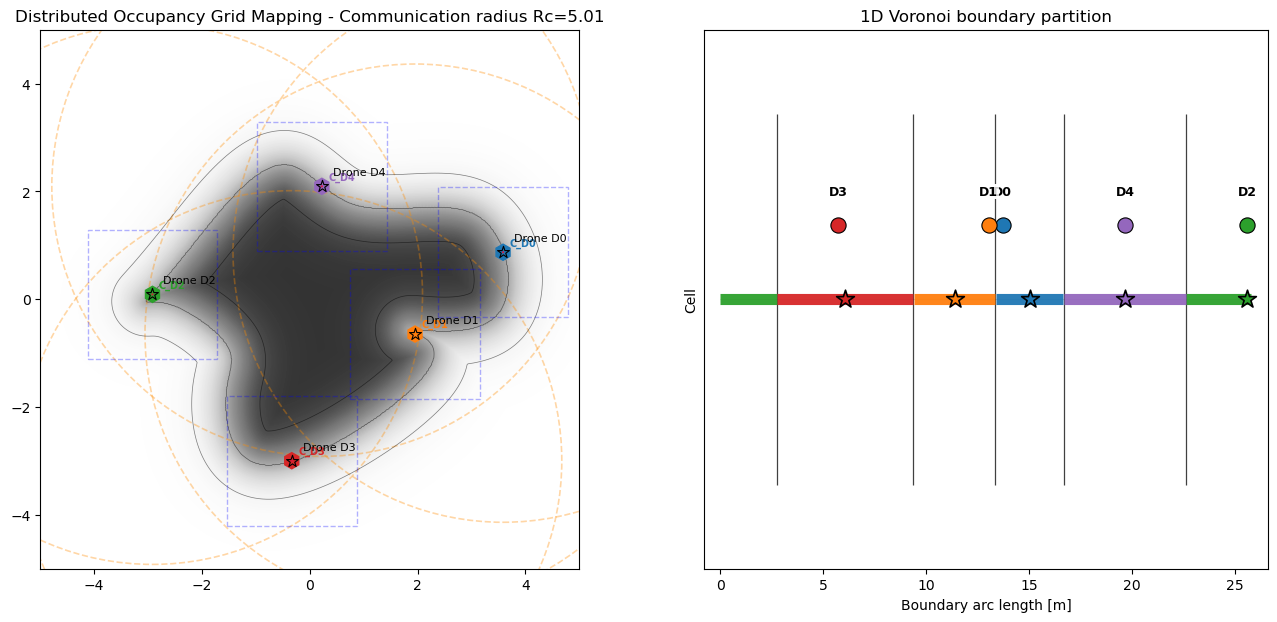
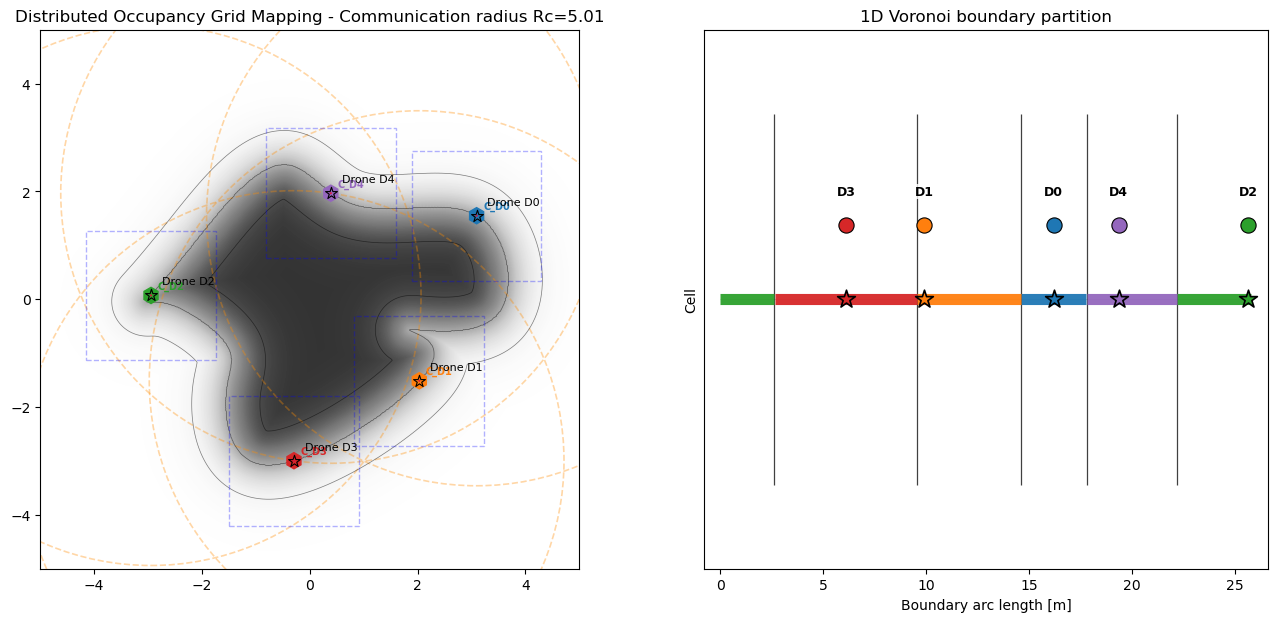
save

diff --git a/visualization.py b/visualization.py
@@ -324,30 +324,10 @@ class Visualizer:
         x_margin = max(0.25, 0.03 * float(total_boundary_length))
         self.ring_ax.set_xlim(-x_margin, float(total_boundary_length) + x_margin)
 
-        cell_colors = []
-        cell_indices = []
-        # For each drone, prefer per-drone `last_ring_info`; otherwise fall back
-        # to the canonical assignment determined above so drones are visible
-        # on the 1D ring even when they don't carry individual ring metadata.
+        # Draw one canonical partition, then overlay each drone's own current
+        # seed and Lloyd target so both panels use the same per-drone metadata.
         for drone in drones:
-            # determine assignment array and occupied points to use
-            ring_data = getattr(drone, "last_ring_info", None)
-            if ring_data is not None and "occupied_points" in ring_data:
-                occupied = np.asarray(ring_data["occupied_points"], dtype=float)
-                assigned = np.asarray(
-                    ring_data.get("assigned_drone_indices", np.zeros(len(occupied), dtype=object)),
-                    dtype=object,
-                )
-            else:
-                # fallback to canonical arrays
-                occupied = canonical_points
-                assigned = canonical_assignment
-            arc_lengths = canonical_arc_lengths
-
-            if occupied is None or occupied.size == 0:
-                continue
-
-            cell_mask = np.array([a == drone.drone_id for a in assigned], dtype=bool)
+            cell_mask = np.array([a == drone.drone_id for a in canonical_assignment], dtype=bool)
             if not np.any(cell_mask):
                 continue
 
@@ -365,32 +345,38 @@ class Visualizer:
                     continue
                 segment = self.ring_ax.hlines(
                     0.0,
-                    float(arc_lengths[run[0]]),
-                    float(arc_lengths[run[-1]]),
+                    float(canonical_arc_lengths[run[0]]),
+                    float(canonical_arc_lengths[run[-1]]),
                     colors=[drone_color],
                     linewidths=8.0,
                     alpha=0.95,
                     zorder=2,
                 )
                 self.voronoi_ring_artists.append(segment)
-            cell_colors.append(drone_color)
-            cell_indices.append(points_x)
 
-            # target centroid: prefer canonical_ring entry then per-drone target_centroid
+            # Target/seed marker: prefer the drone's own current partition,
+            # then fall back to the canonical partition used for colored cells.
             target_idx = None
             seed_idx = None
             target_arc = None
             seed_arc = None
-            if canonical_ring:
+
+            ring_data = getattr(drone, "last_ring_info", None)
+            if isinstance(ring_data, dict):
+                current = ring_data.get("current", {})
+                seed_idx = current.get("seed_index")
+                seed_arc = current.get("seed_arc_length")
+                target_idx = current.get("target_chain_index")
+                target_arc = current.get("target_arc_length")
+
+            if target_arc is None and canonical_ring:
                 for entry in canonical_ring:
                     if entry.get("drone_id") == drone.drone_id:
                         seed_idx = entry.get("seed_index")
                         seed_arc = entry.get("seed_arc_length")
-                        # some ring generators expose a target_chain_index
                         target_idx = entry.get("target_chain_index")
                         target_arc = entry.get("target_arc_length")
                         if target_idx is None and "target_centroid" in entry and canonical_points is not None:
-                            # find nearest canonical point to the target centroid
                             tc = np.asarray(entry["target_centroid"], dtype=float)
                             dists = np.linalg.norm(canonical_points - tc.reshape(1,2), axis=1)
                             target_idx = float(np.argmin(dists))

diff --git a/controller.py b/controller.py
@@ -736,7 +736,18 @@ class Controller:
             # Apply the accumulated knowledge updates to each drone
             for i, drone in enumerate(drones):
                 if pending_updates[i]:
-                    drone.known_positions.update(pending_updates[i])
+                    drone_id = getattr(drone, 'drone_id', 0)
+                    for known_id, position in pending_updates[i].items():
+                        if known_id == drone_id:
+                            continue
+                        drone.known_positions[known_id] = np.asarray(
+                            position,
+                            dtype=float,
+                        )
+                    drone.known_positions[drone_id] = np.array(
+                        [drone.x, drone.y],
+                        dtype=float,
+                    )
 
     def _compute_voronoi_target(self, drones):
         """
@@ -754,6 +765,8 @@ class Controller:
         ):
             return
 
+        boundary = np.asarray(self.known_boundary_points, dtype=float)
+        self._ensure_ordered_closed_boundary()
         boundary = np.asarray(self.known_boundary_points, dtype=float)
         is_closed = bool(self.known_boundary_closed)
         arc_lengths, total_length = self._boundary_arc_lengths(
@@ -883,12 +896,6 @@ class Controller:
                 'cell_arc_length': cell_arc_length,
             })
 
-        # Set target_centroid on drone objects where appropriate
-        for entry in ring:
-            for d in drones:
-                if getattr(d, 'drone_id', None) == entry['drone_id']:
-                    d.target_centroid = np.asarray(entry['target_centroid'], dtype=float)
-
         # Identify current/pred/succ for current_drone
         cur_id = getattr(current_drone, 'drone_id', None)
         if cur_id not in ordered_ids:
@@ -931,6 +938,12 @@ class Controller:
                     'cell_arc_length': entry['cell_arc_length'],
                 })
                 res['current_idx'] = entry['drone_id']
+                current_drone.target_centroid = np.asarray(
+                    entry['target_centroid'],
+                    dtype=float,
+                )
+                current_drone.boundary_s = float(entry['seed_arc_length'])
+                current_drone.boundary_index = int(entry['seed_index'])
                 break
 
         current_drone.last_ring_info = res
@@ -1038,7 +1051,9 @@ class Controller:
         ):
             boundary = np.asarray(boundary, dtype=float)
             arc_lengths = np.asarray(arc_lengths, dtype=float)
-            current_arc = getattr(drone, 'boundary_s', None)
+            current_arc = current.get('seed_arc_length')
+            if current_arc is None:
+                current_arc = getattr(drone, 'boundary_s', None)
             if current_arc is None:
                 current_arc, _, _ = self._arc_length_at_position(
                     boundary,

diff --git a/tests/test_voronoi_mssp_static.py b/tests/test_voronoi_mssp_static.py
@@ -116,3 +116,82 @@ def test_closed_lloyd_targets_split_boundary_by_arc_midpoints():
         total_length,
     )
     np.testing.assert_allclose(targets["B"]["target_arc_length"], 2.25)
+
+
+def test_compute_ring_ordering_does_not_overwrite_other_drone_targets():
+    controller = Controller(
+        sim_map=None,
+        communication_radius=100.0,
+    )
+    controller.initialize_known_boundary(
+        np.array([[float(i), 0.0] for i in range(5)], dtype=float),
+        force_closed=False,
+    )
+
+    drone_a = StaticDrone("A", 0.0, 0.0)
+    drone_b = StaticDrone("B", 4.0, 0.0)
+    drone_a.known_positions = {
+        "A": np.array([0.0, 0.0], dtype=float),
+        "B": np.array([2.0, 0.0], dtype=float),
+    }
+    drone_b.known_positions = {
+        "A": np.array([0.0, 0.0], dtype=float),
+        "B": np.array([4.0, 0.0], dtype=float),
+    }
+
+    controller.compute_ring_ordering(drone_a, [drone_a, drone_b])
+    np.testing.assert_allclose(drone_a.target_centroid, [0.5, 0.0])
+
+    controller.compute_ring_ordering(drone_b, [drone_a, drone_b])
+
+    np.testing.assert_allclose(drone_a.target_centroid, [0.5, 0.0])
+    np.testing.assert_allclose(drone_b.target_centroid, [3.0, 0.0])
+
+
+def test_equidistant_action_uses_current_seed_arc_from_ring_info():
+    controller = Controller(
+        sim_map=None,
+        communication_radius=100.0,
+    )
+    points = np.array([[float(i), 0.0] for i in range(6)], dtype=float)
+    controller.initialize_known_boundary(points, force_closed=False)
+    arc_lengths, total_length = controller._boundary_arc_lengths(points, is_closed=False)
+
+    drone = StaticDrone("A", 2.0, 0.0)
+    drone.max_speed = 0.12
+    drone.boundary_s = 0.0
+    ring_info = {
+        "occupied_points": points,
+        "arc_lengths": arc_lengths,
+        "total_boundary_length": total_length,
+        "is_closed": False,
+        "current": {
+            "seed_arc_length": 2.0,
+            "target_arc_length": 1.0,
+            "target_centroid": np.array([1.0, 0.0], dtype=float),
+        },
+    }
+
+    action = controller._equidistant_action(
+        drone,
+        ring_info,
+        world_field=None,
+        x_coords=None,
+        y_coords=None,
+    )
+
+    np.testing.assert_allclose(action, [-0.12, 0.0])
+
+
+def test_multihop_does_not_overwrite_a_drone_own_current_position():
+    controller = Controller(
+        sim_map=None,
+        communication_radius=100.0,
+    )
+    drone_a = StaticDrone("A", 1.0, 0.0)
+    drone_b = StaticDrone("B", 2.0, 0.0)
+    drone_b.known_positions["A"] = np.array([-9.0, 0.0], dtype=float)
+
+    controller._update_multihop_positions([drone_a, drone_b])
+
+    np.testing.assert_allclose(drone_a.known_positions["A"], [1.0, 0.0])
